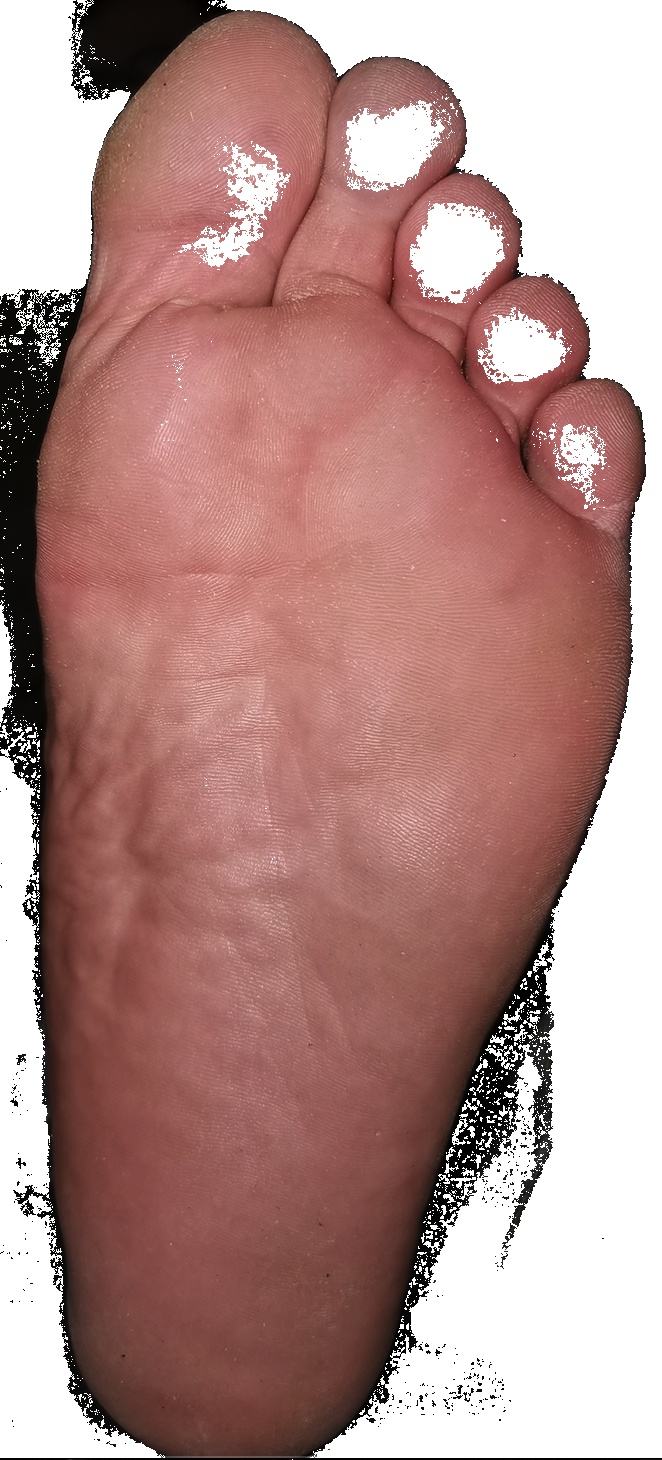
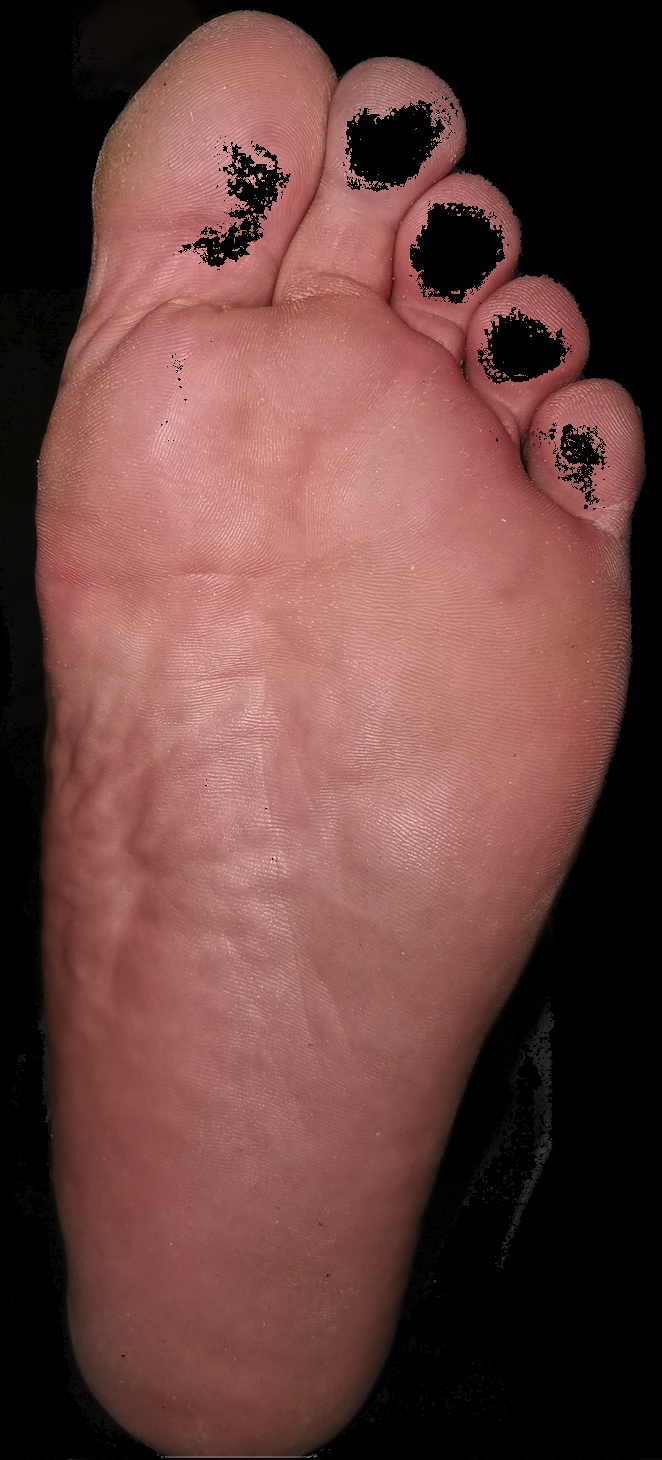
fix version

diff --git a/src/BgRemoval.java b/src/BgRemoval.java
@@ -23,25 +23,35 @@ public class BgRemoval {
 
         double threshValue = this.getHistAverage(hsvImg, hsvPlanes.get(0));
         //a new binary threshold
-        Imgproc.threshold(hsvPlanes.get(0), thresholdImg, threshValue, 255.0, Imgproc.THRESH_BINARY_INV);
+        Imgproc.threshold(hsvPlanes.get(0), thresholdImg, threshValue, 255, Imgproc.THRESH_BINARY_INV);
         Imgproc.blur(thresholdImg, thresholdImg, new Size(5, 5));
 
         // dilate to fill gaps, erode to smooth edges
-        Imgproc.dilate(thresholdImg, thresholdImg, new Mat(), new Point(-1, 1), 6);
-        Imgproc.erode(thresholdImg, thresholdImg, new Mat(), new Point(-1, 1), 6);
+        Imgproc.dilate(thresholdImg, thresholdImg, new Mat(), new Point(-1, -1), 1);
+        Imgproc.erode(thresholdImg, thresholdImg, new Mat(), new Point(-1, -1), 3);
 
-        Imgproc.threshold(hsvPlanes.get(0), thresholdImg, threshValue, 255.0, Imgproc.THRESH_BINARY_INV);
+        Imgproc.threshold(hsvPlanes.get(0), thresholdImg, threshValue, 255, Imgproc.THRESH_BINARY_INV);
 
         // create the new image
-        Mat foreground = new Mat(source.size(), CvType.CV_8UC3, new Scalar(255, 255, 255));
+        Mat foreground = new Mat(source.size(), CvType.CV_8UC1, new Scalar(0, 0, 0));
         source.copyTo(foreground, thresholdImg);
         Imgcodecs.imwrite("bg remove.jpg", foreground);
+
+        //Post
+        Imgproc.cvtColor(foreground, source, Imgproc.COLOR_BGR2GRAY);
+        Imgproc.threshold(source, source, threshValue, 255.0, Imgproc.THRESH_BINARY_INV);
+//        String file = "./asd.jpg";
+        double kernelSize = source.width() / 100;
+        Mat kernel = new Mat(new Size(kernelSize, kernelSize), CvType.CV_8UC1);
+        Imgproc.morphologyEx(source, source, Imgproc.MORPH_OPEN, kernel);
+//        imageCodecs.imwrite(file, image);
+        Imgcodecs.imwrite("bg remove11.jpg", source);
 
         return foreground;
     }
 
     //Histogram
-    public double getHistAverage(Mat hsvImg, Mat hueValues)
+    private double getHistAverage(Mat hsvImg, Mat hueValues)
     {
         // init
         double average = 0.0;

diff --git a/src/main.java b/src/main.java
@@ -19,9 +19,10 @@ class Test {
 
         // To Read the image
         Mat source = Imgcodecs.imread(input);
-        Imgcodecs.imwrite("./test.jpg", source);
+//        Imgcodecs.imwrite("./test.jpg", source);
         BgRemoval b = new BgRemoval();
         b.doBackgroundRemoval(source);
+
 
         // Creating the empty destination matrix
 //        Mat gray = new Mat();
